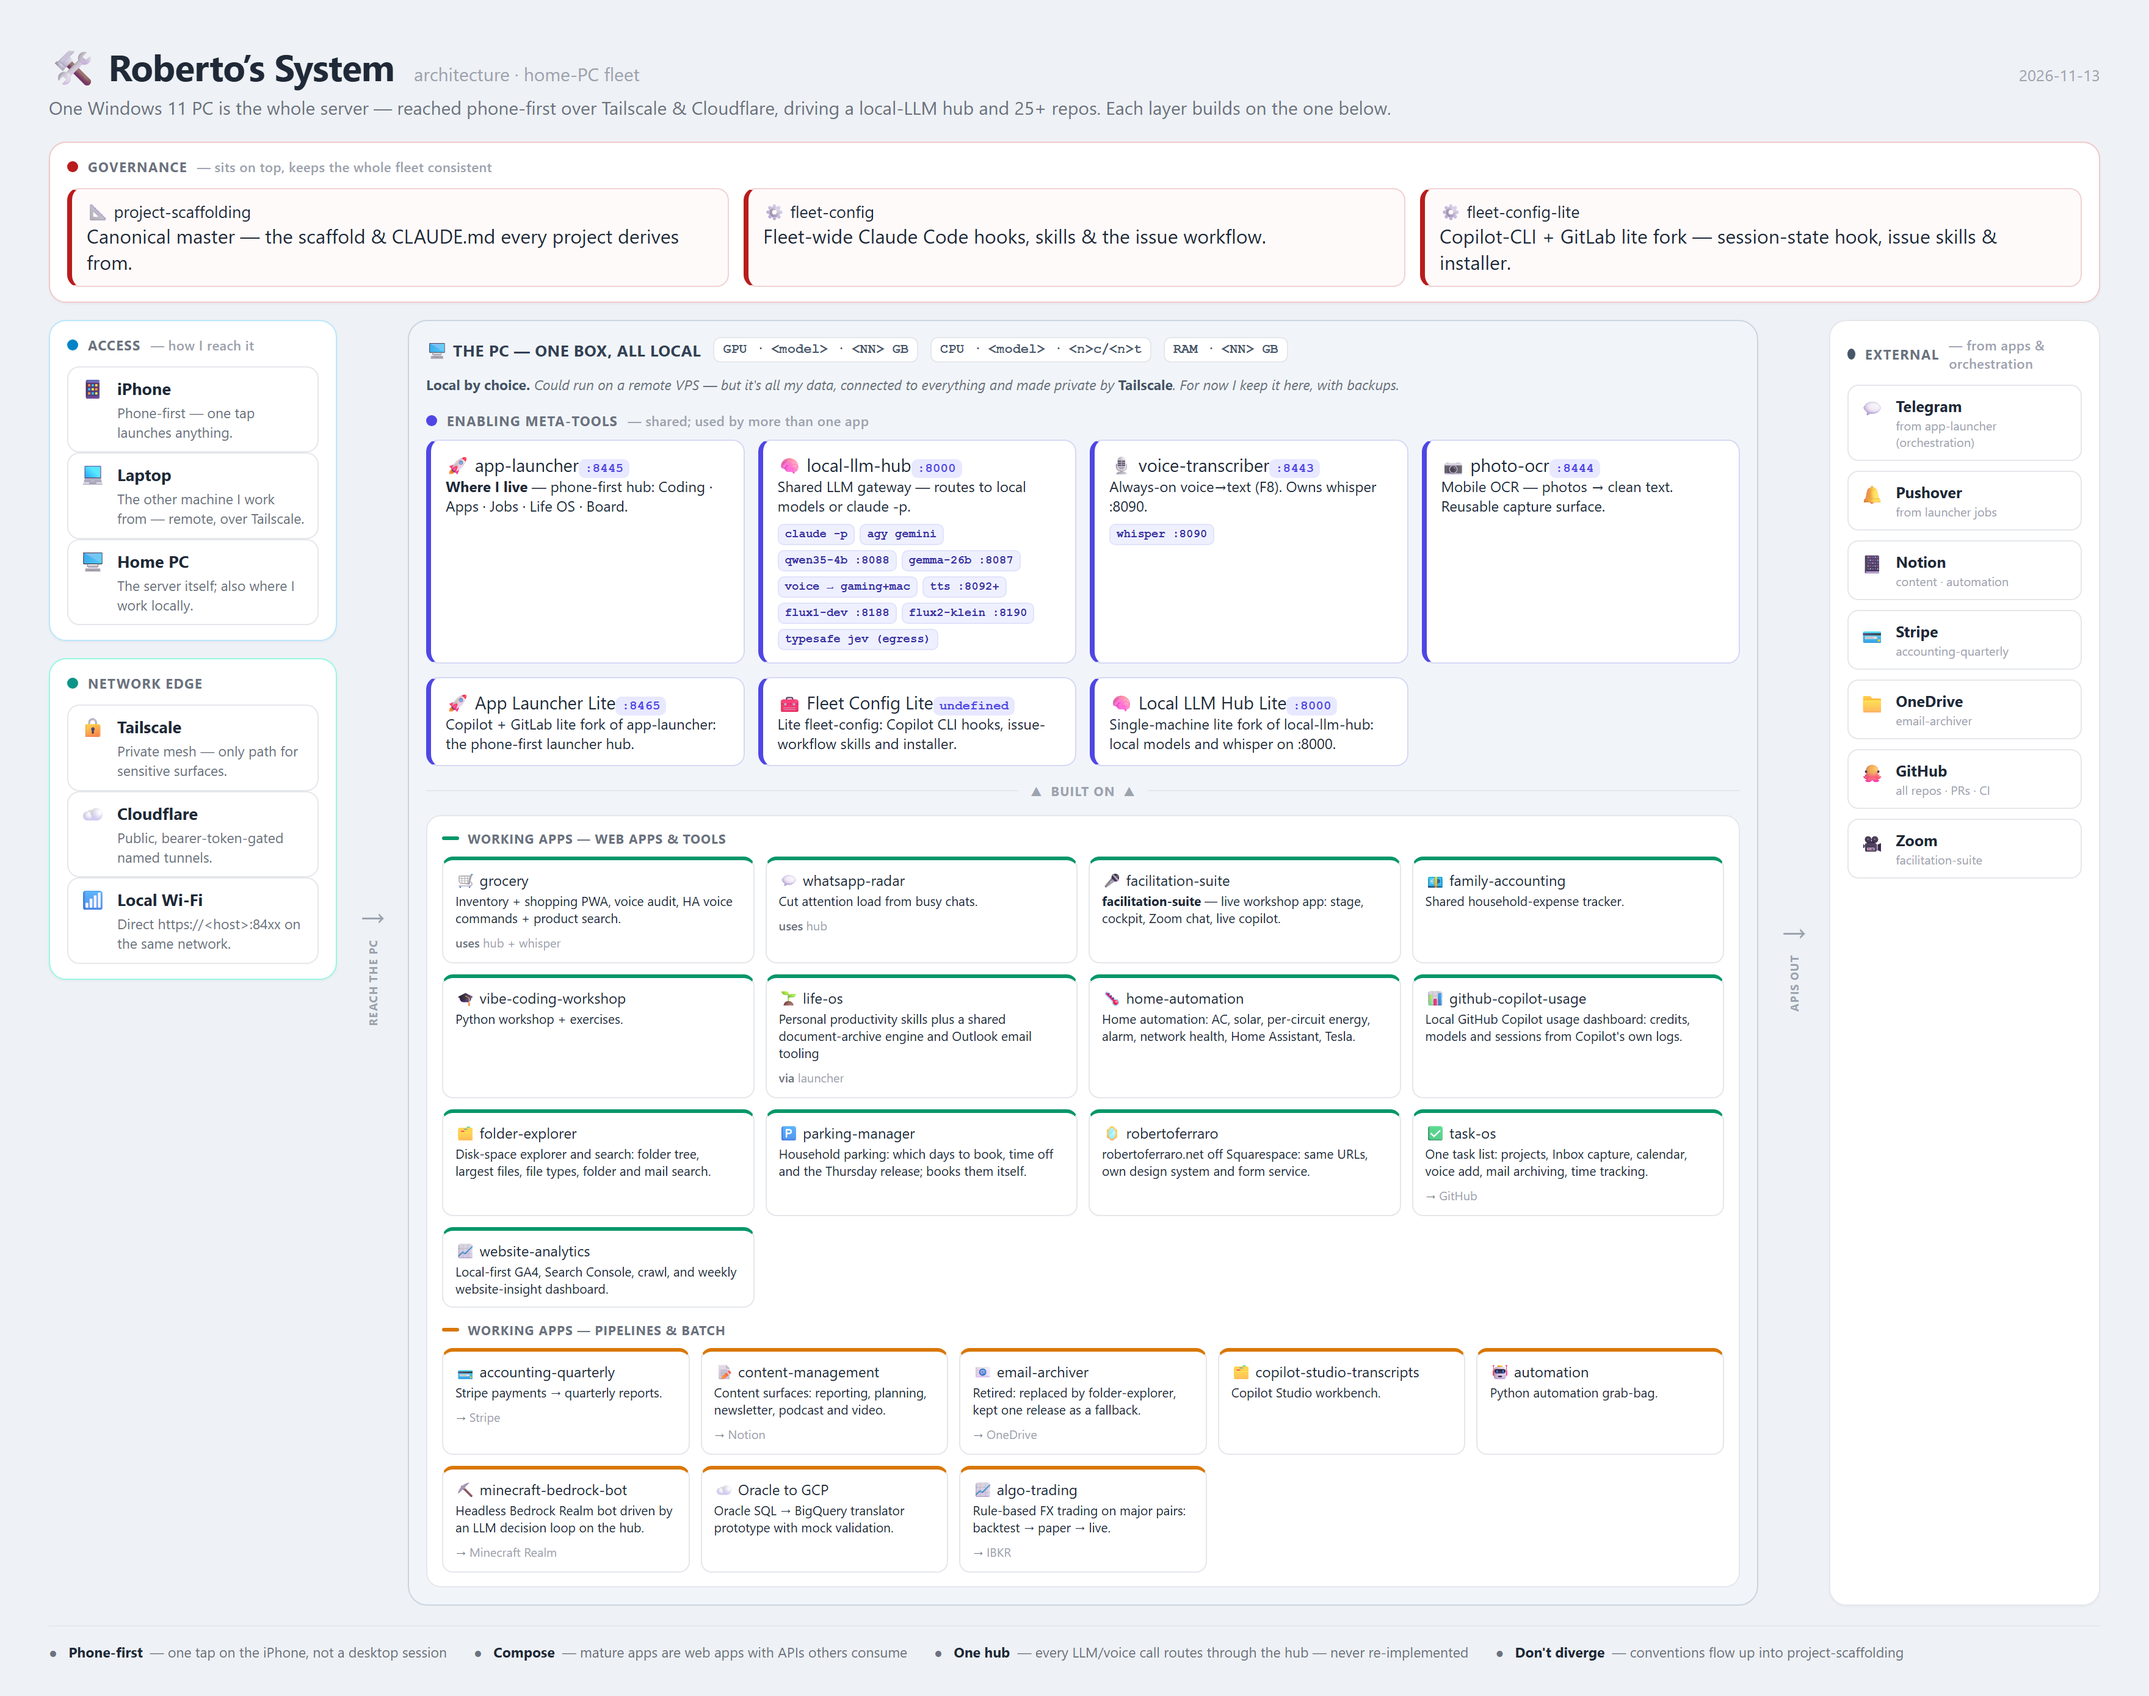
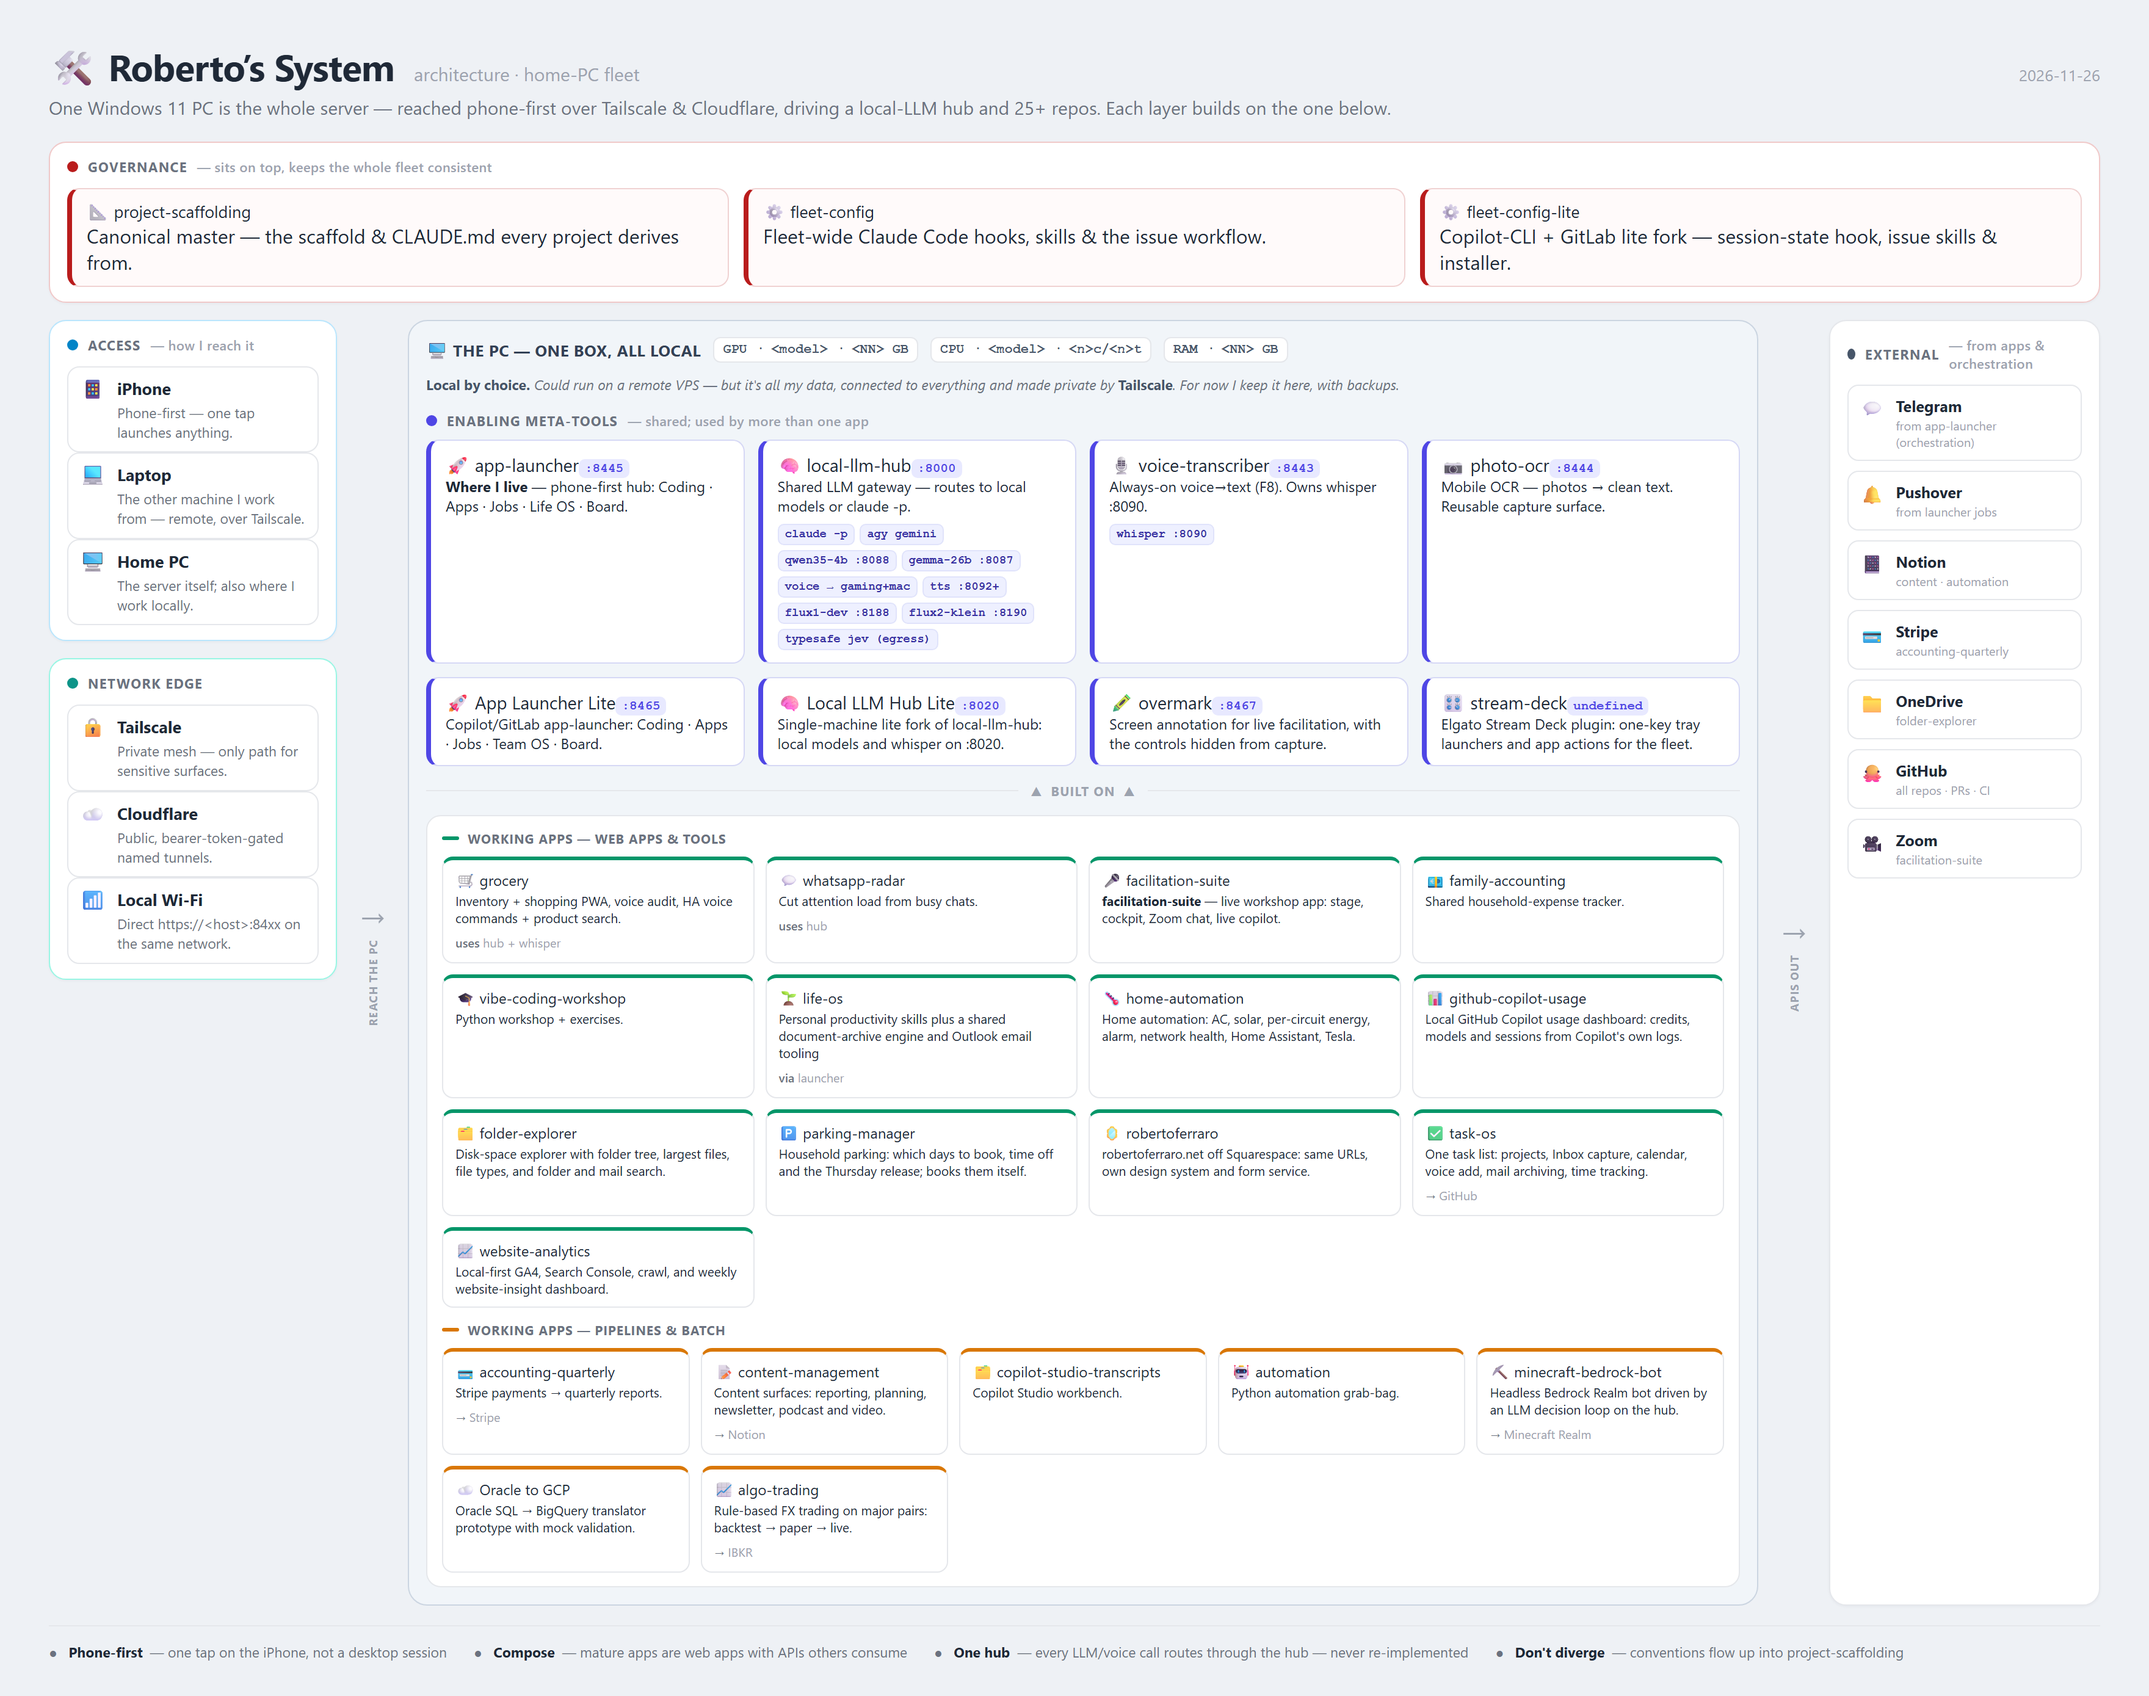
docs: refresh system map (2026-11-27)

diff --git a/architecture/fleet.data.js b/architecture/fleet.data.js
@@ -32,10 +32,9 @@ window.FLEET = {
     {"ic": "🧠", "nm": "local-llm-hub", "port": ":8000", "ds": "Shared LLM gateway — routes to local models or claude -p.", "chips": ["claude -p", "agy gemini", "qwen35-4b :8088", "gemma-26b :8087", "voice → gaming+mac", "tts :8092+", "flux1-dev :8188", "flux2-klein :8190", "typesafe jev (egress)"], "deps": [{"repo": "voice-transcriber"}, {"repo": "automation"}, {"repo": "project-scaffolding"}], "ifs": [{"name": "messages", "kind": "http", "doc": "docs/api-usage.md"}, {"name": "audio", "kind": "http", "doc": "docs/api-usage.md"}, {"name": "models", "kind": "http", "doc": "docs/models-and-roles.md"}], "owns": ["LLM routing", "model backends and ports", "audio proxy", "hub telemetry"], "not_owns": ["whisper engine", "job scheduling", "agent config"]},
     {"ic": "🎙", "nm": "voice-transcriber", "port": ":8443", "ds": "Always-on voice→text (F8). Owns whisper :8090.", "chips": ["whisper :8090"], "deps": [{"repo": "local-llm-hub"}]},
     {"ic": "📷", "nm": "photo-ocr", "port": ":8444", "ds": "Mobile OCR — photos → clean text. Reusable capture surface.", "deps": [{"repo": "local-llm-hub"}, {"repo": "project-scaffolding"}]},
-    {"ic": "🚀", "nm": "App Launcher Lite", "repo": "app-launcher-lite", "port": ":8465", "ds": "Copilot + GitLab lite fork of app-launcher: the phone-first launcher hub.", "deps": [{"repo": "app-launcher"}]},
-    {"ic": "🧰", "nm": "Fleet Config Lite", "repo": "fleet-config-lite", "ds": "Lite fleet-config: Copilot CLI hooks, issue-workflow skills and installer."},
-    {"ic": "🧠", "nm": "Local LLM Hub Lite", "repo": "local-llm-hub-lite", "port": ":8000", "ds": "Single-machine lite fork of local-llm-hub: local models and whisper on :8000."},
-    {"ic": "🖍", "nm": "overmark", "ds": "Screen annotation for live facilitation, with the controls hidden from capture.", "deps": [{"repo": "project-scaffolding"}]},
+    {"ic": "🚀", "nm": "App Launcher Lite", "repo": "app-launcher-lite", "port": ":8465", "ds": "Copilot/GitLab app-launcher: Coding · Apps · Jobs · Team OS · Board.", "deps": [{"repo": "app-launcher"}], "ifs": [{"name": "jobs", "kind": "http", "doc": "docs/jobs-tab.md"}, {"name": "board", "kind": "http", "doc": "docs/board.md"}, {"name": "sessions", "kind": "http", "doc": "docs/session-view.md"}], "owns": ["launcher webapp", "Copilot sessions", "job scheduling", "Board", "Copilot hooks, chief and lane skills"], "not_owns": ["app code it launches", "the forge"]},
+    {"ic": "🧠", "nm": "Local LLM Hub Lite", "repo": "local-llm-hub-lite", "port": ":8020", "ds": "Single-machine lite fork of local-llm-hub: local models and whisper on :8020."},
+    {"ic": "🖍", "nm": "overmark", "port": ":8467", "ds": "Screen annotation for live facilitation, with the controls hidden from capture.", "deps": [{"repo": "project-scaffolding"}]},
     {"ic": "🎛", "nm": "stream-deck", "ds": "Elgato Stream Deck plugin: one-key tray launchers and app actions for the fleet.", "tag": ["→", "Stream Deck"], "deps": [{"repo": "fleet-config"}, {"repo": "home-automation"}]}
   ],
   "web": [

diff --git a/docs/fleet-guide.md b/docs/fleet-guide.md
@@ -59,7 +59,7 @@ Each repo describes itself in a `.fleet.toml` file at its root: its layer, an ic
 | ⚙ | `fleet-config` | Fleet-wide Claude Code hooks, skills & the issue workflow. | — |
 | ⚙ | `fleet-config-lite` | Copilot-CLI + GitLab lite fork — session-state hook, issue skills & installer. | — |
 
-### Enabling (`layer = "enabling"`, 9 repos)
+### Enabling (`layer = "enabling"`, 8 repos)
 
 | | Repo | What it is | Port |
 |---|---|---|---|
@@ -67,10 +67,9 @@ Each repo describes itself in a `.fleet.toml` file at its root: its layer, an ic
 | 🧠 | `local-llm-hub` | Shared LLM gateway — routes to local models or claude -p. | :8000 |
 | 🎙 | `voice-transcriber` | Always-on voice→text (F8). Owns whisper :8090. | :8443 |
 | 📷 | `photo-ocr` | Mobile OCR — photos → clean text. Reusable capture surface. | :8444 |
-| 🚀 | `app-launcher-lite` | Copilot + GitLab lite fork of app-launcher: the phone-first launcher hub. | :8465 |
-| 🧰 | `fleet-config-lite` | Lite fleet-config: Copilot CLI hooks, issue-workflow skills and installer. | — |
-| 🧠 | `local-llm-hub-lite` | Single-machine lite fork of local-llm-hub: local models and whisper on :8000. | :8000 |
-| 🖍 | `overmark` | Screen annotation for live facilitation, with the controls hidden from capture. | — |
+| 🚀 | `app-launcher-lite` | Copilot/GitLab app-launcher: Coding · Apps · Jobs · Team OS · Board. | :8465 |
+| 🧠 | `local-llm-hub-lite` | Single-machine lite fork of local-llm-hub: local models and whisper on :8020. | :8020 |
+| 🖍 | `overmark` | Screen annotation for live facilitation, with the controls hidden from capture. | :8467 |
 | 🎛 | `stream-deck` | Elgato Stream Deck plugin: one-key tray launchers and app actions for the fleet. | — |
 
 ### Working apps: web (`layer = "working-web"`, 13 repos)

diff --git a/architecture/CONTRACTS.md b/architecture/CONTRACTS.md
@@ -17,6 +17,9 @@ What each fleet repo declares it exposes, owns and depends on. A repo with no de
 | local-llm-hub | messages | http | [docs/api-usage.md](https://github.com/ferraroroberto/local-llm-hub/blob/main/docs/api-usage.md) |
 | local-llm-hub | audio | http | [docs/api-usage.md](https://github.com/ferraroroberto/local-llm-hub/blob/main/docs/api-usage.md) |
 | local-llm-hub | models | http | [docs/models-and-roles.md](https://github.com/ferraroroberto/local-llm-hub/blob/main/docs/models-and-roles.md) |
+| app-launcher-lite | jobs | http | [docs/jobs-tab.md](https://github.com/ferraroroberto/app-launcher-lite/blob/main/docs/jobs-tab.md) |
+| app-launcher-lite | board | http | [docs/board.md](https://github.com/ferraroroberto/app-launcher-lite/blob/main/docs/board.md) |
+| app-launcher-lite | sessions | http | [docs/session-view.md](https://github.com/ferraroroberto/app-launcher-lite/blob/main/docs/session-view.md) |
 
 ## Ownership
 
@@ -25,6 +28,7 @@ What each fleet repo declares it exposes, owns and depends on. A repo with no de
 | fleet-config | user-scope agent config, hooks, fleet skills, issue workflow, fleet map | app code, scaffold templates, LLM routing, job scheduling |
 | app-launcher | launcher webapp, agent sessions, job scheduling, Board | LLM routing, agent config and skills, app code it launches |
 | local-llm-hub | LLM routing, model backends and ports, audio proxy, hub telemetry | whisper engine, job scheduling, agent config |
+| app-launcher-lite | launcher webapp, Copilot sessions, job scheduling, Board, Copilot hooks, chief and lane skills | app code it launches, the forge |
 | life-os | personal productivity skills, document archive engine, Outlook email tooling | task list, session hosting, LLM routing, hooks |
 
 ## Dependencies
